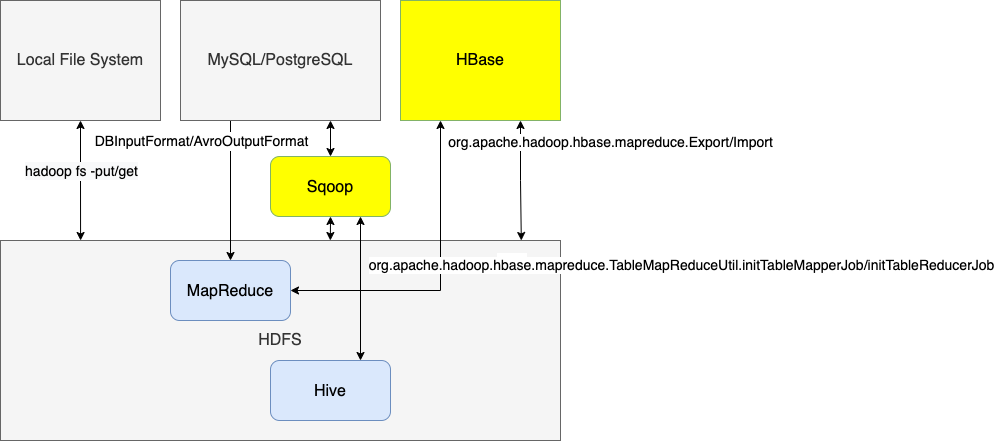
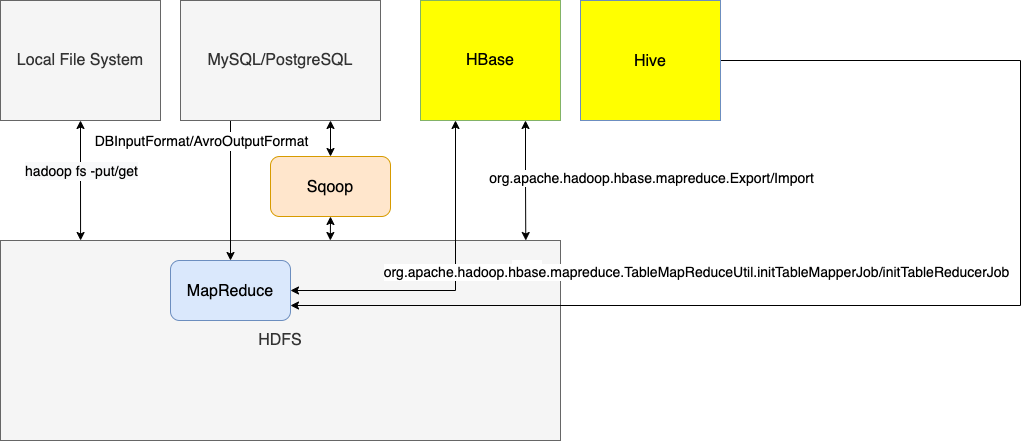
update

diff --git a/infrastructure-hadoop/README.md b/infrastructure-hadoop/README.md
@@ -233,8 +233,13 @@ $ echo $HADOOP_CLASSPATH
 ## Data
 
 <p float="left">
-  <img src="./pix/data_etl.png" width="800" />
+  <img src="./pix/data_etl.png" width="650" />
+  <img src="./pix/hive.png" width="450" />
 </p>
+
+* Hive communicates with the `JobTracker` to initiate the `MapReduce` job.
+* The data files to be processed are in `HDFS`, which are managed by the `NameNode`.
+* `Metastore` is usually MySQL, where Hive persists table schemas.
 
 ### Apache Flume
 
